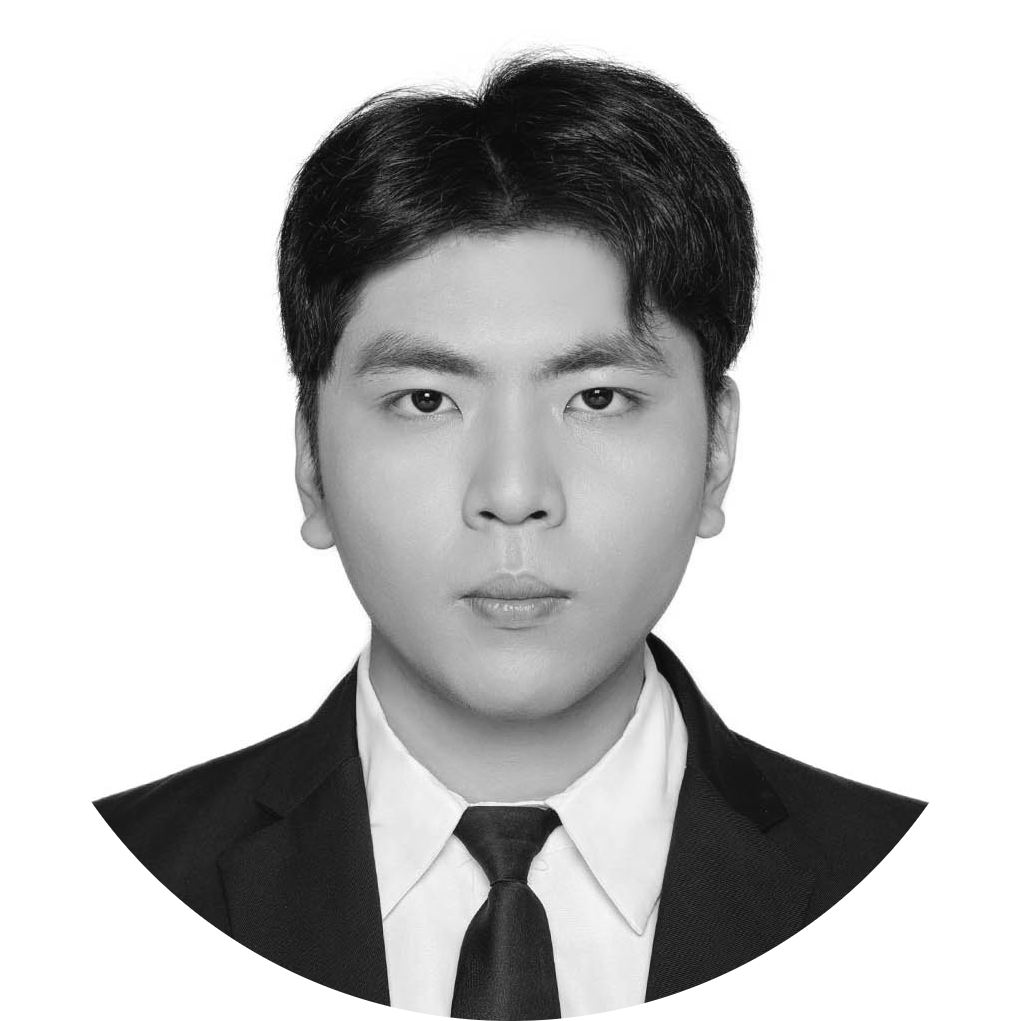
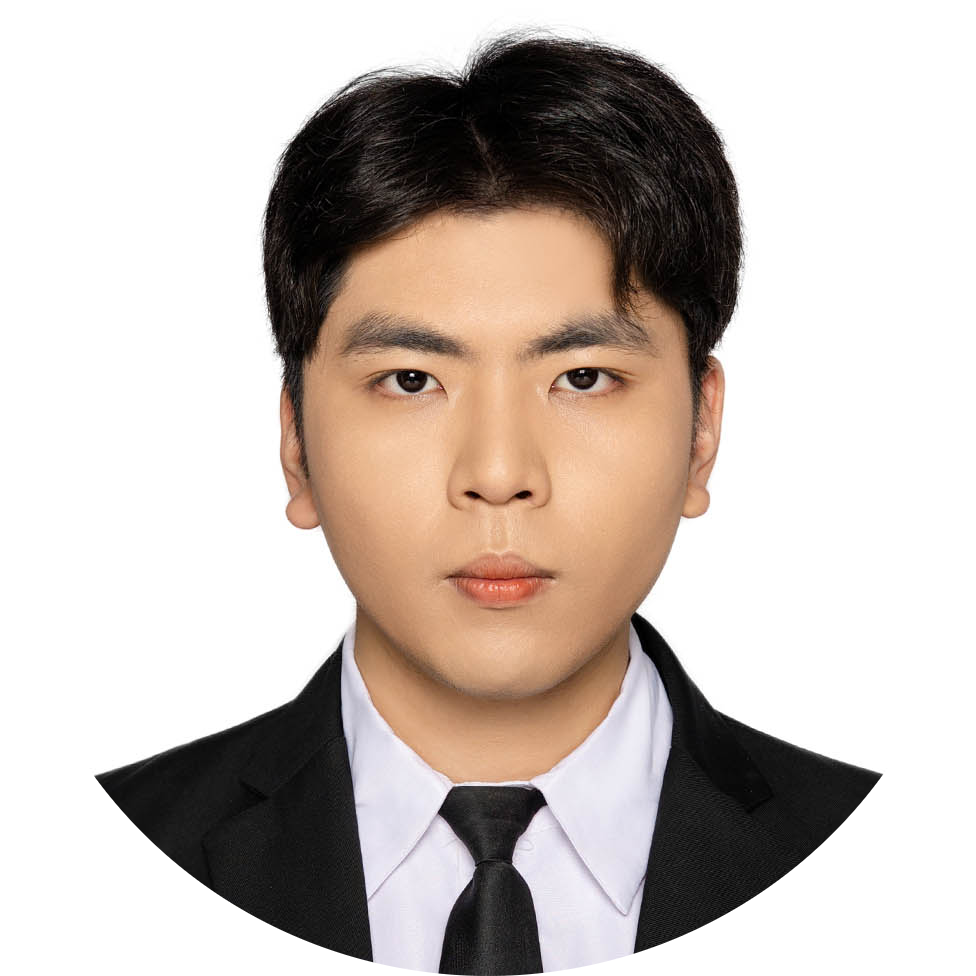
修改了个人主页

diff --git a/src/app/page.tsx b/src/app/page.tsx
@@ -16,8 +16,7 @@ export default function HomePage() {
   return (
     <>
       <div className="w-full">
-        {/* p-数字 和 p-[数字px]的区别 -> p-数字是响应式设计 p-[数字px]不是响应式设计 md sm lg */}
-        {/* md: 的意思 是浏览器尺寸>= md的尺寸的时候 才会应用的布局 */}
+        {/* 我的图片 */}  
         <div className="flex justify-center md:pt-[80px] md:pb-[50px] pt-[70px] pb-[50px] ">
           <Image
             src="/images/my-image.png"
@@ -47,7 +46,7 @@ export default function HomePage() {
           </div>
           <div className="flex justify-center py-2">
             <small className="text-sm font-bold italic leading-none">
-              (i am a fitness xxxxxx)
+              (I am a fitness enthusiast)
             </small>
           </div>
         </div>
@@ -78,7 +77,7 @@ export default function HomePage() {
               <Twitter size={24} />
             </Link>
             <Link
-              href="mailto:your-email@example.com"
+              href="http://192.168.0.7:3000/contact"
               className="text-gray-600 hover:text-green-500 transition-colors"
             >
               <Mail size={24} />

diff --git a/src/app/about/page.tsx b/src/app/about/page.tsx
@@ -46,11 +46,10 @@ export default function About() {
           <h1 className="text-[10px] md:pt-[10px] md:pb-[20px] pt-[20px] pb-[10px]">
             主要奖项
           </h1>
-          <div className="max-w-xs text-[10px] mt-1">
-            <p>1.xxxxxxxx</p>
-            <p>2.xxxxxxxx</p>
-            <p>3.xxxxxxxx</p>
-            <p>4.xxxxxxxx</p>
+          <div className="text-[10px] mt-1">
+            <p className="whitespace-nowrap">1.2024年 National College Digital Art &Desgin Awards </p>
+            <p className="whitespace-nowrap">2.2024年 American New concept Design Art Award</p>
+            <p className="whitespace-nowrap">3.2023年 The first session in 2023 Cross Strait Digital art Design Annual Awards</p>
           </div>
         </div>
       </div>

diff --git a/src/app/Projects/page.tsx b/src/app/Projects/page.tsx
@@ -14,7 +14,7 @@ const images = [
     alt: "My project 2",
     description: "这是项目2的介绍",
     extraDedcription: "这是额外的描述文本",
-    href: "作品2"
+    href: "/todolist"
   },
   {
     src: "/images/3.jpg",
